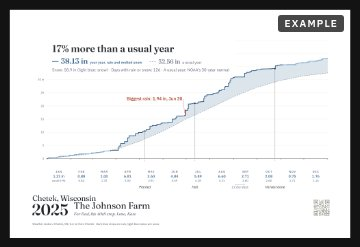
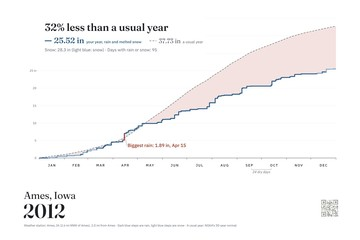
Rain Print thumbnail from the real 2012 Ames example; gauge page says the nearest weather station

Changed region(s): [[0.0, 0.0, 1.0, 1.0], [0.0917, 0.35, 0.1222, 0.3792]]

diff --git a/sw.js b/sw.js
@@ -35,7 +35,7 @@
 // v8 (2026-07-26): cache bust for the big deploy week — chips, signup bar,
 // nowcast, contrast, iOS text fix, sponsor pricing. Returning phones were
 // pinned to old ?v= assets by cacheFirst; this clears every device's cache.
-var CACHE_VERSION = 85;  // v85 2026-10-15: rain-print.js?v=33 (example print + Your words polish together); v84 2026-10-15: Rain Print Mark a day on one line per day, up to five marked days with a note under a day the art cannot place, one plain maker line, one text width under the tool (rain-print.js?v=32 on rain-print and rp-gift); v83 2026-10-15: county rain pages draw the year so far as a Rain Print from data/rain/daily (rain-county-print.js?v=1, rain-county.css?v=4); v82 2026-10-15: Rain Print example print (2012 Ames, real NOAA data) in the empty frame until the live draw (rain-print.js?v=32 on rain-print and rp-gift); v81 2026-10-15: Rain Print remarkable days print their dates (a day, or a stretch's range) in gray after the words, the biggest rain's date the same way, the foot line says "Gaps: N days with no report" only past 3 missing days, and up to five marked days (rain-print-art.js?v=11 on rain-print and rp-gift); v80 2026-10-15: Rain Print plain station words (rain-print.js?v=31); v79 2026-10-15: Rain Print picks the nearest station with rain and snowfall records (rain-print.js?v=30); v78 2026-10-15: print redesign (Rain Print print design (panel 4): the name is the biggest words, dates on the line, Roots scales fit the year, one foot line, snowfall note (rain-print-art.js?v=9 on rain-print and rp-gift)); Rain Print three-step flow: one picker, a review sheet before Stripe in the same tab, a paid page, example words as hints only, month and day lists (rain-print.js?v=28 on rain-print and rp-gift); marked days: the date after the words on the print, Mark a day rows numbered with Remove and messages under their own row (rain-print-art.js?v=10, rain-print.js?v=29 on rain-print and rp-gift); the station pick takes one that records snowfall too, a few miles farther, and the station list says rain and snow or rain only (rain-print.js?v=30 on rain-print and rp-gift); v77 2026-10-15: page audit fixes across about 60 pages (copy, stale facts, Barchart mentions gone, farm bill status, manure wording); v76 2026-10-14: manure value is the value of all the manure: calculator drops the buyer and seller boxes, hauling and the fair range, and adds the whole field (manure-value.js?v=2, manure-value.css?v=2 on manure-value and fast-facts); v75 2026-10-14: Rain Print previews carry the standard code and make no short link on a redraw; order files, checkout and the order form make one at the press (rain-print.js?v=27 and rp-short.js?v=4 on rain-print and rp-gift); v74 2026-10-14: Rain Print standard code on every preview, the print's own short link only on the maker's order files, Test print PDF (standard code) (rain-print.js?v=26 on rain-print and rp-gift; qr.js?v=10 on rain-print, rp-gift, sponsor-kit, prf-sponsor-kit, arc-plc/sheet); v73 2026-10-14: /manure-value page (manure-value.js?v=1, manure-value.css?v=1, shared with fast-facts), Fast Facts page script moved to fast-facts.js?v=1, fast-facts on util.js?v=19, menu and footer gain Manure value and Fast Facts (loader.js CV 44); v72 2026-10-14: Rain Print panel 3 fixes (rain-print.js?v=25, rain-print-art.js?v=8, rain-print-records.js?v=3, rp-logo.js?v=2, rp-short.js?v=3 on rain-print and rp-gift; form-post.js?v=4 on elevators, list-your-elevator, sponsor-report, farmland-atlas, prf-sponsor, rain-print), privacy page, rain gauge page, gifts page, styles.css?v=24 and loader.js?v=19 sitewide (both changed since their last bump); v71 2026-10-14: PRF sponsor offer moved up to a slim band under the opening answer on /prf, the state pages and the county pages (prf-sponsor.js?v=3, prf.css?v=6); v70 2026-10-14: Rain Print logo upload (rp-logo.js?v=1, rain-print-art.js?v=7, rain-print.js?v=24 on rain-print and rp-gift); v69 2026-10-14: Rain Print "Your print" rebuilt as a full-window view with the print fitted and one side panel (rain-print.js?v=23 on rain-print and rp-gift); v68 2026-10-14: Rain Print order fixes: ?d=RPS- references open, example words explained under the Order button, checkout note under the tapped button, proof orders what it showed, label counters, new share image and thumb (rain-print.js?v=22, rp-short.js?v=2 on rain-print and rp-gift; rain-print-promo.js?v=4 on index and gifts-for-farmers); v67 2026-10-14: rain gauge page rebuilt with the prototype design (charcoal renders in img/rain-gauge/, old concept images removed, waitlist top and bottom, no new scripts); v66 2026-10-14: Rain Print digital file needs no proof, ships within 3 business days, 8 x 10 gift card with a preview of the print so far (rain-print.js?v=21, rain-print-art.js?v=6, rp-gift.js?v=3 on rain-print and rp-gift); v65 2026-10-14: Rain Print polish: NOAA daily data (data.rcc-acis.org) never cached; forms give up on a silent worker after 12 s (form-post.js?v=3 on elevators, list-your-elevator, sponsor-report, farmland-atlas, prf-sponsor, rain-print); gift card wording (rp-gift.js?v=2 on rp-gift and rain-print); Rain Print page, engine and art fixes (every Rain Print script's ?v bumped once in rain-print.html); v64 2026-10-14: county rain polish (rain-county.css?v=3), prose keeps proportional figures (styles.css); v63 2026-10-13: Rain by county in the menu and footer (loader.js CV 43); v62 2026-10-13: county rain pages (rain-county.css), Rain Print finds the town from a county page link (rain-print.js?v=18); v61 2026-10-13: gifts for farmers page, homepage Christmas card links to it (rain-print-promo.js?v=3); v60 2026-10-13: Rain Print labels never collide (rain-print-art.js?v=3); v59 2026-10-13: Rain Print page steps, print beside the name and dates, up-close order row (rain-print.js?v=17); v58 2026-10-13: /prf-sponsor page and form (prf-sponsor.js?v=2, prf.css?v=5, prf-sponsor-page.js); v57 2026-10-13: PRF state sponsors (prf-sponsor.js, prf.js?v=5, prf.css?v=4), List your elevator (list-elevator.js); v56 2026-10-13: Rain Print own-area first print, example to trim, zoom (rain-print.js?v=16), bid alert box (cb-signup.js?v=2), elevator portal (post, elev-admin), portal elevator info on cash bids (cash-bids.js?v=2); v55 2026-10-13: Rain Print and rain gauge in the menu and footer, homepage card and related-page lines (loader.js CV 42, rain-print-promo.js?v=2), /rain-gauge; v54 2026-10-13: Rain Print business prices delivered, minimum 5, ships flat, reprint and refund terms (rain-print.js?v=14); v53 2026-10-13: Rain Print launch fixes and gift card redeem (rain-print.js?v=13, rain-print-art.js?v=2, rp-gift.js?v=1); v52 2026-10-13: Rain Print R1 Staircase and R2 Roots (rain-print.js?v=12, rain-print-art.js, new Rain Print fonts); v51 2026-10-13: futures chart loads on scroll, cash-bids page script file, one fetch per data file (util.js?v=19); v50 2026-10-12: craft pass (price, basis and contract formats, agronomy tools, hail, shared styles, homepage script file, offline mode on every loader page); v49 2026-10-12: menu and footer icons complete; v48 2026-10-11: signup asks take an optional ZIP, rent and ARC/PLC notice asks (signup-ask.js?v=6, loader.js CV 39); v47 2026-10-11: menu says Harvest price, wheat deferred card rolls, polish pass; v46 2026-10-11: unsold sponsor slots show nothing (footer, ribbons, homepage, daily), Rain Print sample and promo; v45 2026-10-11: email bar off the briefing archive, sponsor pages and worksheets (signup-ask.js?v=5, loaded by loader.js?v=18, which this clears); v44 2026-10-10: the menu grouped by question, shorter phone drawer; v43 2026-10-10: one price formatter, shared futures script, store-or-sell; v42 2026-10-10: ARC or PLC math loads on open and works offline, one shared counter sheet; v41 2026-10-09: ARC or PLC short-answer county pages and counter sheets; v40 2026-10-09: ARC/PLC calculator works offline on saved pages; v39 2026-10-09: ARC or PLC in the menu, footer and homepage; v38 2026-10-09: ARC/PLC decision tiers; v37 2026-10-09: ARC/PLC calculator; v36 2026-10-09: plainer site copy; v35 2026-10-09: card tokens, spray states, page titles; v34 2026-10-09: one look, variable fonts (old font files removed); v33 2026-10-09: no-jump layout, loading states; v32 2026-10-09: menu and footer change; v31 2026-10-09: instant pages, offline copies of key data; v30 2026-10-09: search, My elevators, tap targets; v29 2026-10-09: em-dash cleanup, link fixes, homepage coverage counts file; v28 2026-10-08: phone audit 2 (contrast, 16px inputs, 40px taps, footer pill); v27 2026-10-08: styles.css phone fixes (16px inputs so iOS stops zooming, .sr-only, light-mode change chips); was: v26 (2026-08-15 nav-panel visibility fix)
+var CACHE_VERSION = 86;  // v86 2026-10-15: Rain Print thumbnail redrawn from the real 2012 Ames example (the image cache is cleared by this bump); gauge page says the nearest weather station; v85 2026-10-15: rain-print.js?v=33 (example print + Your words polish together); v84 2026-10-15: Rain Print Mark a day on one line per day, up to five marked days with a note under a day the art cannot place, one plain maker line, one text width under the tool (rain-print.js?v=32 on rain-print and rp-gift); v83 2026-10-15: county rain pages draw the year so far as a Rain Print from data/rain/daily (rain-county-print.js?v=1, rain-county.css?v=4); v82 2026-10-15: Rain Print example print (2012 Ames, real NOAA data) in the empty frame until the live draw (rain-print.js?v=32 on rain-print and rp-gift); v81 2026-10-15: Rain Print remarkable days print their dates (a day, or a stretch's range) in gray after the words, the biggest rain's date the same way, the foot line says "Gaps: N days with no report" only past 3 missing days, and up to five marked days (rain-print-art.js?v=11 on rain-print and rp-gift); v80 2026-10-15: Rain Print plain station words (rain-print.js?v=31); v79 2026-10-15: Rain Print picks the nearest station with rain and snowfall records (rain-print.js?v=30); v78 2026-10-15: print redesign (Rain Print print design (panel 4): the name is the biggest words, dates on the line, Roots scales fit the year, one foot line, snowfall note (rain-print-art.js?v=9 on rain-print and rp-gift)); Rain Print three-step flow: one picker, a review sheet before Stripe in the same tab, a paid page, example words as hints only, month and day lists (rain-print.js?v=28 on rain-print and rp-gift); marked days: the date after the words on the print, Mark a day rows numbered with Remove and messages under their own row (rain-print-art.js?v=10, rain-print.js?v=29 on rain-print and rp-gift); the station pick takes one that records snowfall too, a few miles farther, and the station list says rain and snow or rain only (rain-print.js?v=30 on rain-print and rp-gift); v77 2026-10-15: page audit fixes across about 60 pages (copy, stale facts, Barchart mentions gone, farm bill status, manure wording); v76 2026-10-14: manure value is the value of all the manure: calculator drops the buyer and seller boxes, hauling and the fair range, and adds the whole field (manure-value.js?v=2, manure-value.css?v=2 on manure-value and fast-facts); v75 2026-10-14: Rain Print previews carry the standard code and make no short link on a redraw; order files, checkout and the order form make one at the press (rain-print.js?v=27 and rp-short.js?v=4 on rain-print and rp-gift); v74 2026-10-14: Rain Print standard code on every preview, the print's own short link only on the maker's order files, Test print PDF (standard code) (rain-print.js?v=26 on rain-print and rp-gift; qr.js?v=10 on rain-print, rp-gift, sponsor-kit, prf-sponsor-kit, arc-plc/sheet); v73 2026-10-14: /manure-value page (manure-value.js?v=1, manure-value.css?v=1, shared with fast-facts), Fast Facts page script moved to fast-facts.js?v=1, fast-facts on util.js?v=19, menu and footer gain Manure value and Fast Facts (loader.js CV 44); v72 2026-10-14: Rain Print panel 3 fixes (rain-print.js?v=25, rain-print-art.js?v=8, rain-print-records.js?v=3, rp-logo.js?v=2, rp-short.js?v=3 on rain-print and rp-gift; form-post.js?v=4 on elevators, list-your-elevator, sponsor-report, farmland-atlas, prf-sponsor, rain-print), privacy page, rain gauge page, gifts page, styles.css?v=24 and loader.js?v=19 sitewide (both changed since their last bump); v71 2026-10-14: PRF sponsor offer moved up to a slim band under the opening answer on /prf, the state pages and the county pages (prf-sponsor.js?v=3, prf.css?v=6); v70 2026-10-14: Rain Print logo upload (rp-logo.js?v=1, rain-print-art.js?v=7, rain-print.js?v=24 on rain-print and rp-gift); v69 2026-10-14: Rain Print "Your print" rebuilt as a full-window view with the print fitted and one side panel (rain-print.js?v=23 on rain-print and rp-gift); v68 2026-10-14: Rain Print order fixes: ?d=RPS- references open, example words explained under the Order button, checkout note under the tapped button, proof orders what it showed, label counters, new share image and thumb (rain-print.js?v=22, rp-short.js?v=2 on rain-print and rp-gift; rain-print-promo.js?v=4 on index and gifts-for-farmers); v67 2026-10-14: rain gauge page rebuilt with the prototype design (charcoal renders in img/rain-gauge/, old concept images removed, waitlist top and bottom, no new scripts); v66 2026-10-14: Rain Print digital file needs no proof, ships within 3 business days, 8 x 10 gift card with a preview of the print so far (rain-print.js?v=21, rain-print-art.js?v=6, rp-gift.js?v=3 on rain-print and rp-gift); v65 2026-10-14: Rain Print polish: NOAA daily data (data.rcc-acis.org) never cached; forms give up on a silent worker after 12 s (form-post.js?v=3 on elevators, list-your-elevator, sponsor-report, farmland-atlas, prf-sponsor, rain-print); gift card wording (rp-gift.js?v=2 on rp-gift and rain-print); Rain Print page, engine and art fixes (every Rain Print script's ?v bumped once in rain-print.html); v64 2026-10-14: county rain polish (rain-county.css?v=3), prose keeps proportional figures (styles.css); v63 2026-10-13: Rain by county in the menu and footer (loader.js CV 43); v62 2026-10-13: county rain pages (rain-county.css), Rain Print finds the town from a county page link (rain-print.js?v=18); v61 2026-10-13: gifts for farmers page, homepage Christmas card links to it (rain-print-promo.js?v=3); v60 2026-10-13: Rain Print labels never collide (rain-print-art.js?v=3); v59 2026-10-13: Rain Print page steps, print beside the name and dates, up-close order row (rain-print.js?v=17); v58 2026-10-13: /prf-sponsor page and form (prf-sponsor.js?v=2, prf.css?v=5, prf-sponsor-page.js); v57 2026-10-13: PRF state sponsors (prf-sponsor.js, prf.js?v=5, prf.css?v=4), List your elevator (list-elevator.js); v56 2026-10-13: Rain Print own-area first print, example to trim, zoom (rain-print.js?v=16), bid alert box (cb-signup.js?v=2), elevator portal (post, elev-admin), portal elevator info on cash bids (cash-bids.js?v=2); v55 2026-10-13: Rain Print and rain gauge in the menu and footer, homepage card and related-page lines (loader.js CV 42, rain-print-promo.js?v=2), /rain-gauge; v54 2026-10-13: Rain Print business prices delivered, minimum 5, ships flat, reprint and refund terms (rain-print.js?v=14); v53 2026-10-13: Rain Print launch fixes and gift card redeem (rain-print.js?v=13, rain-print-art.js?v=2, rp-gift.js?v=1); v52 2026-10-13: Rain Print R1 Staircase and R2 Roots (rain-print.js?v=12, rain-print-art.js, new Rain Print fonts); v51 2026-10-13: futures chart loads on scroll, cash-bids page script file, one fetch per data file (util.js?v=19); v50 2026-10-12: craft pass (price, basis and contract formats, agronomy tools, hail, shared styles, homepage script file, offline mode on every loader page); v49 2026-10-12: menu and footer icons complete; v48 2026-10-11: signup asks take an optional ZIP, rent and ARC/PLC notice asks (signup-ask.js?v=6, loader.js CV 39); v47 2026-10-11: menu says Harvest price, wheat deferred card rolls, polish pass; v46 2026-10-11: unsold sponsor slots show nothing (footer, ribbons, homepage, daily), Rain Print sample and promo; v45 2026-10-11: email bar off the briefing archive, sponsor pages and worksheets (signup-ask.js?v=5, loaded by loader.js?v=18, which this clears); v44 2026-10-10: the menu grouped by question, shorter phone drawer; v43 2026-10-10: one price formatter, shared futures script, store-or-sell; v42 2026-10-10: ARC or PLC math loads on open and works offline, one shared counter sheet; v41 2026-10-09: ARC or PLC short-answer county pages and counter sheets; v40 2026-10-09: ARC/PLC calculator works offline on saved pages; v39 2026-10-09: ARC or PLC in the menu, footer and homepage; v38 2026-10-09: ARC/PLC decision tiers; v37 2026-10-09: ARC/PLC calculator; v36 2026-10-09: plainer site copy; v35 2026-10-09: card tokens, spray states, page titles; v34 2026-10-09: one look, variable fonts (old font files removed); v33 2026-10-09: no-jump layout, loading states; v32 2026-10-09: menu and footer change; v31 2026-10-09: instant pages, offline copies of key data; v30 2026-10-09: search, My elevators, tap targets; v29 2026-10-09: em-dash cleanup, link fixes, homepage coverage counts file; v28 2026-10-08: phone audit 2 (contrast, 16px inputs, 40px taps, footer pill); v27 2026-10-08: styles.css phone fixes (16px inputs so iOS stops zooming, .sr-only, light-mode change chips); was: v26 (2026-08-15 nav-panel visibility fix)
 /* ───────────────────────────────────────────────────────────────── */
 
 var CACHE_NAME = 'agsist-v' + CACHE_VERSION;

diff --git a/rain-gauge.html b/rain-gauge.html
@@ -349,10 +349,10 @@
 
     <section class="rg-sec">
       <div class="rg-rp">
-        <a href="/rain-print" tabindex="-1" aria-hidden="true"><img src="/img/rain-print-thumb.jpg" width="360" height="247" alt="" loading="lazy" decoding="async"></a>
+        <a href="/rain-print" tabindex="-1" aria-hidden="true"><img src="/img/rain-print-thumb.jpg" width="360" height="240" alt="" loading="lazy" decoding="async"></a>
         <div>
           <h2 id="rg-rp-h">Someday: a Rain Print of your own field</h2>
-          <p><a href="/rain-print">Rain Print</a> draws a year of rain at the nearest NOAA weather station as a print for the wall. A season from your own gauge could become a Rain Print of your own field instead. That&rsquo;s an idea, not something built yet.</p>
+          <p><a href="/rain-print">Rain Print</a> draws a year of rain at the nearest weather station as a print for the wall. A season from your own gauge could become a Rain Print of your own field instead. That&rsquo;s an idea, not something built yet.</p>
         </div>
       </div>
     </section>

diff --git a/gifts-for-farmers.html b/gifts-for-farmers.html
@@ -106,7 +106,7 @@
       <section class="gf-rp" id="rain-print" aria-labelledby="gf-rp-h">
         <h2 id="gf-rp-h">The year they still talk about, on the wall</h2>
         <figure class="gf-fig">
-          <a href="/rain-print"><img src="/img/rain-print-thumb.jpg" width="360" height="247" alt="A sample Rain Print: a year of rain stepping up across the months, with a farm name and year at the bottom" loading="lazy" decoding="async"></a>
+          <a href="/rain-print"><img src="/img/rain-print-thumb.jpg" width="360" height="240" alt="An example Rain Print from Ames, Iowa, a dry year: rain stepping up across the months, well under a usual year" loading="lazy" decoding="async"></a>
           <figcaption>A sample print. The numbers on it are made up.</figcaption>
         </figure>
         <p>Every farmer has a year they still bring up. The drought, the wet spring, the first crop on new ground, Dad's last crop. Rain Print draws every rain that fell that year at the NOAA weather station nearest their farm or home town, on one 12 x 18 print.</p>

diff --git a/components/rain-print-promo.js b/components/rain-print-promo.js
@@ -136,7 +136,7 @@
         if (!c) continue;
         css();
         el.innerHTML = '<a class="rp-card" href="' + esc(c.href) + '" data-placement="home-card-' + c.angle + '">' +
-          '<span class="rp-card-i"><img src="/img/rain-print-thumb.jpg" width="360" height="247" alt="An example Rain Print: a year of rain stepping up across the months, with a farm name and year" loading="lazy" decoding="async"></span>' +
+          '<span class="rp-card-i"><img src="/img/rain-print-thumb.jpg" width="360" height="240" alt="An example Rain Print from Ames, Iowa, a dry year: rain stepping up across the months, well under a usual year" loading="lazy" decoding="async"></span>' +
           '<span class="rp-card-b"><span class="rp-card-t">' + esc(c.title) + '</span><span class="rp-card-x">' + esc(c.text) + '</span>' +
           '<span class="rp-card-p">' + (c.price ? esc(c.price) + ' ' : '') + '<b>' + esc(c.cta) + ' &rarr;</b></span></span></a>';
         el.hidden = false;
